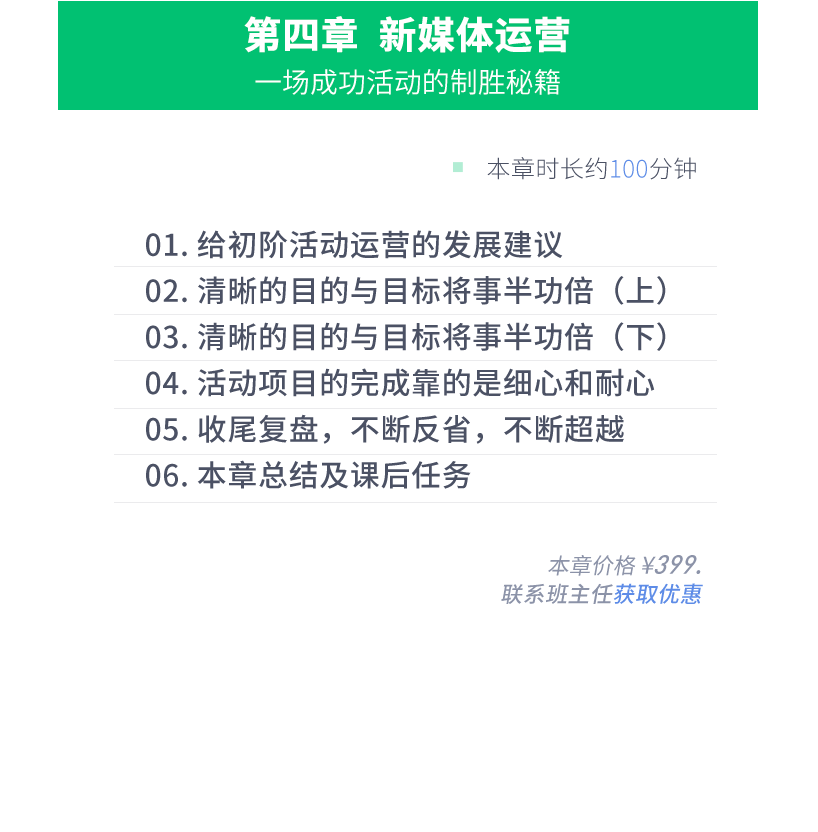
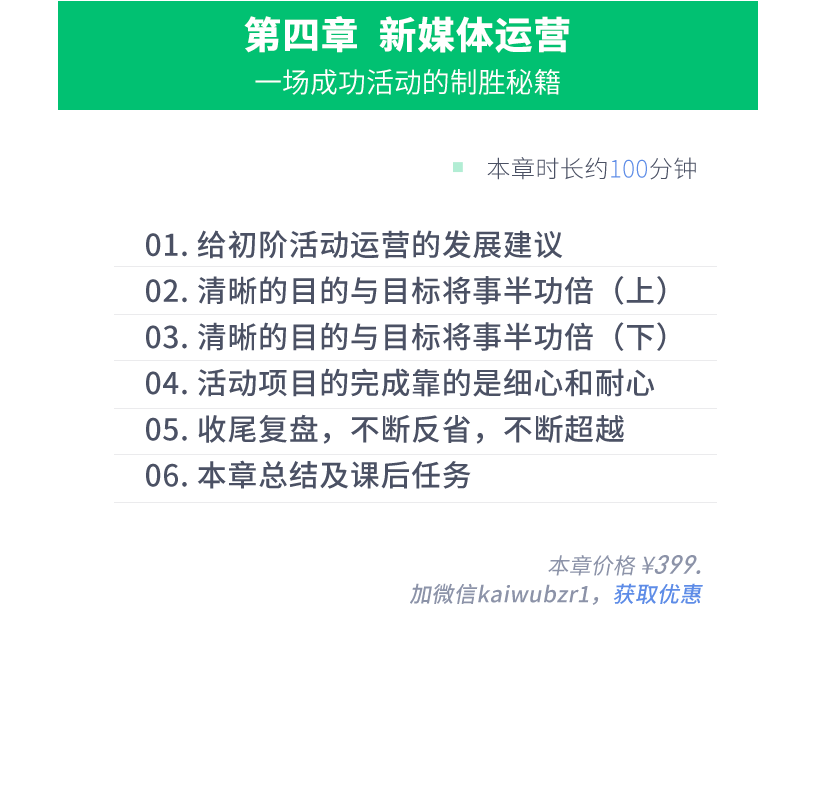
支付：重构,修改图片文案

diff --git a/Lagou/src/2018-offer-class/css/m_index.css b/Lagou/src/2018-offer-class/css/m_index.css
@@ -158,7 +158,7 @@
     height: 17.74933rem;
     margin: 1.408rem auto 0;
     background: url(../images/chapter-04-02.png) no-repeat center top;
-    background-size: 17.45067rem 17.74933rem;
+    background-size: 17.45067rem 17.19467rem;
     position: relative; }
   .wrapper .chapter-04-btn {
     width: 12.45867rem;

diff --git a/Lagou/src/2018-offer-class/css/m_index.scss b/Lagou/src/2018-offer-class/css/m_index.scss
@@ -186,7 +186,7 @@
 		height:rem(832);
 		margin:rem(66) auto 0;
 		background: url(../images/chapter-04-02.png) no-repeat center top;
-		background-size:rem(818) rem(832);
+		background-size:rem(818) rem(806);
 		position:relative;
 	}
 	.chapter-04-btn {
